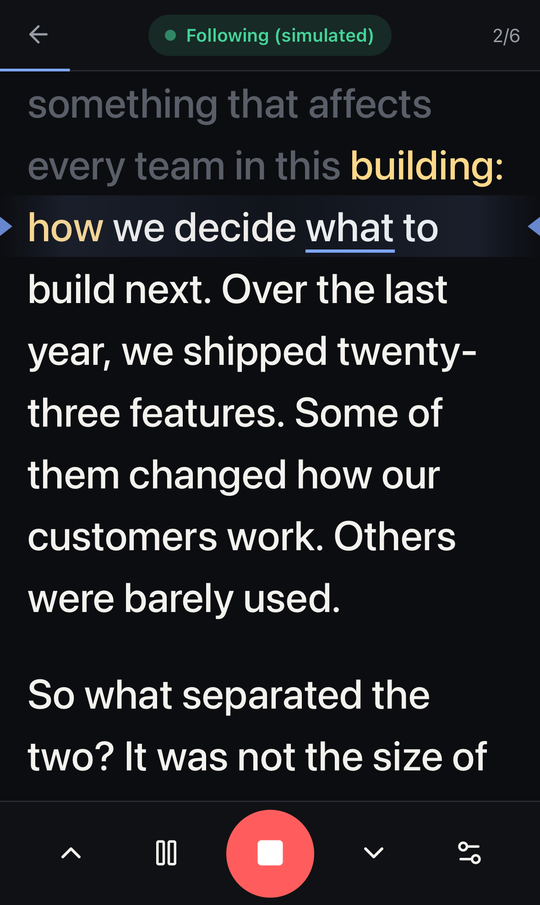
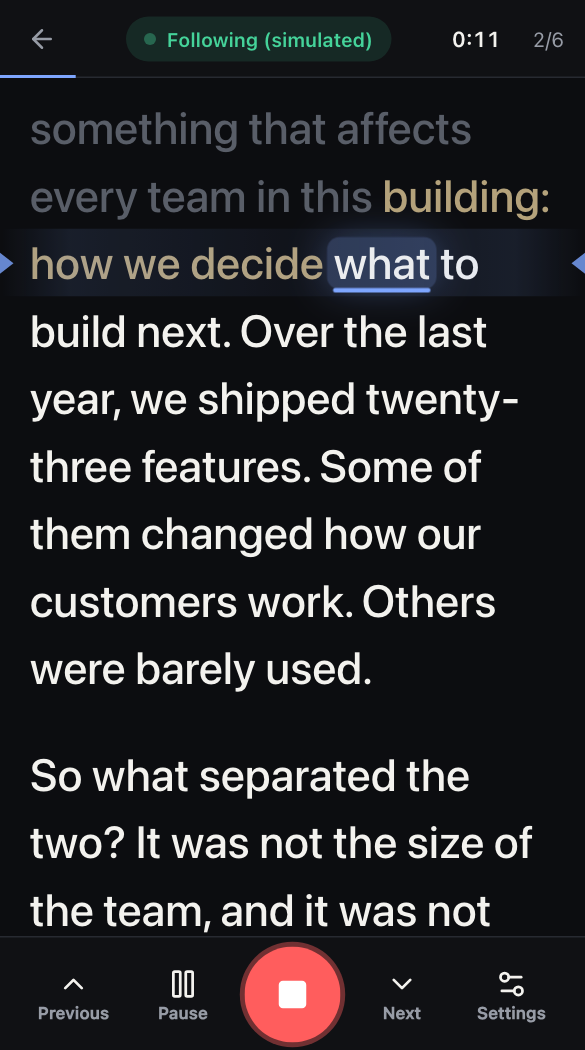
docs: refresh README facts and visuals
Bring the README in line with the current app and matcher: short skips
are followed without a button, repeated phrases never cause a skip,
"Try the sample", the boxed next word, the jump-target underline, the
talk timer and the "-" shortcut.

Retake all screenshots from the current UI (the phone ones predated the
dock labels, timer, new setup screen and speech service choice) and add
an animated demo of the script following speech. Fold the two technical
diagrams into expandable sections.

Correct the AssemblyAI upload note in DEPLOYMENT.md and .env.example:
current Safari and Chrome send it Opus too; only older browsers send
PCM.

diff --git a/README.md b/README.md
@@ -84,21 +84,22 @@ look back down.
 
 <table>
 <tr>
-<td width="33%" valign="top">
+<td width="45%" align="center" valign="top">
+
+<img src="docs/images/following.gif" width="300" alt="Animation of the presenter view on a phone: as the simulated speaker talks, the spoken words fade, the words being heard turn warm, and the boxed next word moves along the reading line." />
+
+<sub>Practice mode reading the sample talk, in real time.</sub>
+
+</td>
+<td valign="top">
 
 ### 1 · Add your script
 
 Paste it, or upload a `.txt` or `.docx` file. Your paragraphs stay exactly as you wrote them.
 
-</td>
-<td width="33%" valign="top">
-
 ### 2 · Start presenting
 
 Choose a text size and theme you like. Tap the microphone.
-
-</td>
-<td width="33%" valign="top">
 
 ### 3 · Just talk
 
@@ -110,28 +111,30 @@ The script follows you. Tap any word to jump there yourself.
 
 ### Reading the screen
 
-| You see           | It means                               |
-| ----------------- | -------------------------------------- |
-| Faded text        | You have said this                     |
-| Warm, dimmer text | What the app is hearing right now      |
-| Underlined word   | Your next word                         |
-| ◀ ▶ markers       | The reading line. Your line stays here |
+| You see                 | It means                                    |
+| ----------------------- | ------------------------------------------- |
+| Faded text              | You have said this                          |
+| Warm, dimmer text       | What the app is hearing right now           |
+| Boxed, underlined word  | Your next word                              |
+| ▶ ◀ markers at the edge | The reading line. Your line stays here      |
+| Dashed underline        | Where a **Jump to …** button would take you |
 
 ### Made for talks that don't go to plan
 
-| When you…                         | The app…                                                              |
-| --------------------------------- | --------------------------------------------------------------------- |
-| **Pause** to breathe or think     | waits. Nothing moves while you are silent.                            |
-| **Go off script** to tell a story | keeps your place, then picks up when you come back to the script.     |
-| **Say it differently** or stumble | copes with misheard words, "um" and "so", and small wording changes.  |
-| **Skip** a sentence or a section  | offers a **Jump to …** button at once, and jumps by itself when sure. |
-| **Repeat** a line for effect      | never jumps backward by itself.                                       |
-| **Lose the network**              | reconnects by itself and carries on. The buttons always still work.   |
-| **Lose the mic**                  | stops where you are and tells you.                                    |
+| When you…                         | The app…                                                             |
+| --------------------------------- | -------------------------------------------------------------------- |
+| **Pause** to breathe or think     | waits. Nothing moves while you are silent.                           |
+| **Go off script** to tell a story | keeps your place, then picks up when you come back to the script.    |
+| **Say it differently** or stumble | copes with misheard words, "um" and "so", and small wording changes. |
+| **Skip** a sentence or two        | catches up by itself after about 5 words (about 2 seconds).          |
+| **Skip** a whole section          | offers a **Jump to …** button, and jumps by itself when sure.        |
+| **Repeat** a line for effect      | never jumps backward by itself.                                      |
+| **Lose the network**              | reconnects by itself and carries on. The buttons always still work.  |
+| **Lose the mic**                  | stops where you are and tells you.                                   |
 
 > [!NOTE]
-> A common phrase like "thank you very much" can appear in many places. On its own, it is never
-> enough to make the script jump.
+> A phrase that appears more than once in your script, like "at the end of the day", never makes
+> the script jump on its own. It waits for the next few words, which tell the places apart.
 
 ## Features
 
@@ -153,6 +156,7 @@ The script follows you. Tap any word to jump there yourself.
 **Hands-free, with manual control**
 
 - Follows your voice, with a clear status: _Listening_, _Lost place_, _Paused_.
+- A talk timer that starts when you start speaking.
 - Tap any word or paragraph to jump there.
 - Previous and next paragraph buttons.
 - Keyboard shortcuts, and support for presenter clickers (Page Up / Page Down).
@@ -191,7 +195,7 @@ The script follows you. Tap any word to jump there yourself.
 <tr>
 <td align="center"><img src="docs/images/setup-phone.png" width="240" alt="Setup screen on a phone with the script editor and a Start presenting button." /><br /><sub>Add your script</sub></td>
 <td align="center"><img src="docs/images/presenter-phone.png" width="240" alt="Presenter view on a phone following along, with a large stop button in the bottom dock." /><br /><sub>Present hands-free</sub></td>
-<td align="center"><img src="docs/images/settings-phone.png" width="240" alt="Settings sheet on a phone with theme, typeface, text size, spacing, column width and reading line controls." /><br /><sub>Make it comfortable</sub></td>
+<td align="center"><img src="docs/images/settings-phone.png" width="240" alt="Settings sheet on a phone with the speech service choice (Standard or Fastest) above the theme and typeface controls." /><br /><sub>Choose your speech service and look</sub></td>
 </tr>
 </table>
 
@@ -239,7 +243,7 @@ cp apps/server/.env.example apps/server/.env   # then set DEEPGRAM_API_KEY and/o
 pnpm dev                                        # web on :5173, server on :8787
 ```
 
-Open **http://localhost:5173**, choose **Load sample**, then **Start presenting**.
+Open **http://localhost:5173**, choose **Try the sample**, then **Start presenting**.
 
 ### On your phone or tablet
 
@@ -260,7 +264,7 @@ You will see a certificate warning once. That is expected for a local test certi
 | `Space`                 | Pause or resume following                             |
 | `↑` `↓` · `PgUp` `PgDn` | Previous or next paragraph (works with most clickers) |
 | `Home`                  | Back to the start                                     |
-| `+` `−`                 | Bigger or smaller text                                |
+| `+` `-`                 | Bigger or smaller text                                |
 | `F`                     | Full screen                                           |
 | `D`                     | Diagnostics panel                                     |
 | `?`                     | Show all shortcuts                                    |
@@ -294,7 +298,7 @@ for each option.
 flowchart LR
     subgraph browser["Browser"]
         direction TB
-        mic["Microphone"] --> enc["Audio capture<br/>Opus, or raw PCM<br/>on older browsers"]
+        mic["Microphone"] --> enc["Audio capture<br/>compressed Opus<br/>(raw PCM on some older browsers)"]
         match["Matcher<br/>finds your place"] --> view["Script view<br/>scrolls to your line"]
         taps["Taps and keys"] --> view
     end
@@ -308,6 +312,10 @@ flowchart LR
 ```
 
 ### One sentence, step by step
+
+<details>
+<summary><b>How guesses and final results move the highlight</b></summary>
+<br />
 
 The speech service sends two kinds of results. A **guess** comes quickly and may change. A
 **final** result comes a moment later and does not change. The app uses each one differently.
@@ -329,28 +337,45 @@ sequenceDiagram
     Note over App: Words fade as spoken<br/>(locked in, never moves back)
 ```
 
+A guess can even carry the warm highlight across a skipped sentence before the final result
+arrives, so the screen catches up sooner.
+
+</details>
+
 ### How the matcher finds your place
 
 It compares the last ~8 words you said with the script. It allows for misheard words, extra
 words, missed words, "um"s and spoken numbers ("twenty twenty five" = "2025").
 
+<details>
+<summary><b>The decision, step by step</b></summary>
+<br />
+
 ```mermaid
 flowchart TD
-    heard["New final words"] --> near{"Do they match the text<br/>just ahead of you?"}
+    heard["New words heard"] --> near{"Do they match the text<br/>just ahead of you?"}
     near -- "yes" --> move["Move forward"]
     near -- "they match text<br/>you already said" --> hold["Stay put<br/>(you are repeating)"]
+    near -- "they match a sentence or two ahead,<br/>and nowhere else (5+ words)" --> skip["Catch up to you"]
     near -- "no" --> far{"Do they match a rare phrase<br/>further ahead, and only there?"}
     far -- "yes" --> offer["Show a 'Jump to …' button<br/>(one tap moves you there)"]
-    offer -- "about 14 words agree,<br/>across two or more finals" --> jump["Jump ahead by itself"]
-    offer -- "you go back to where you were" --> gone["The button goes away"]
+    offer -- "about 14 words agree" --> jump["Jump ahead by itself"]
+    offer -- "you carry on where you were" --> gone["The button goes away"]
     far -- "not sure" --> wait["Stay put<br/>after a few misses: 'Lost place'"]
 ```
 
+</details>
+
+- **Short skips are followed by themselves.** Up to about 40 words ahead, 5 words that match
+  well are enough, as long as they match nowhere else in the script. Even a guess can move the
+  highlight, so it catches up in about 2 seconds.
+- **Far jumps are careful.** Quoting a later part of your talk ("later I'll show you…") must not
+  move the script, so a far jump needs about 14 agreeing words. The **Jump to …** button appears
+  much sooner, after about 5 words, so a real skip is still one tap away.
+- **Repeated phrases never cause a skip.** If the words also match another place in the script,
+  it waits for more.
 - It is a **pure function**: `update(context, state, transcriptEvent) → state`. It has no
   network or speech service code, so it is easy to test.
-- **Far jumps are careful.** Quoting a later part of your talk ("later I'll show you…") must not
-  move the script, so a jump needs about 14 agreeing words. The **Jump to …** button appears much
-  sooner, after about 5 words, so a real skip is still one tap away.
 - All the limits live in one file:
   [`packages/shared/src/matcher/config.ts`](packages/shared/src/matcher/config.ts).
 
@@ -365,7 +390,7 @@ apps/
   server/     Fastify WebSocket relay, Deepgram and AssemblyAI adapters, access control
 packages/
   shared/     Message formats, tokenizer, matcher, simulator (used by both apps)
-docs/         Screenshots
+docs/         Screenshots and illustrations
 deploy/       Optional platform helpers (Cloudflare)
 DEPLOYMENT.md Deployment guide for any platform
 compose.yaml  Run the production images with Docker Compose
@@ -373,9 +398,9 @@ compose.yaml  Run the production images with Docker Compose
 
 ### Tech stack
 
-TypeScript (strict) · React 19 · Vite · Fastify 5 · `ws` · Zod · Web Audio `AudioWorklet`,
+TypeScript (strict) · React 19 · Vite 8 · Fastify 5 · `ws` · Zod · Web Audio `AudioWorklet`,
 WebCodecs `AudioEncoder` and MediaRecorder (Opus) · Deepgram (Nova-3) and AssemblyAI
-(Universal-Streaming) speech-to-text · Caddy · Vitest + Testing Library · pnpm workspaces.
+(Universal-Streaming) speech-to-text · mammoth (reads `.docx` in the browser) · Caddy · Vitest + Testing Library · pnpm workspaces.
 
 ## Development
 

diff --git a/DEPLOYMENT.md b/DEPLOYMENT.md
@@ -63,17 +63,17 @@ Use this when your front-end host can't proxy WebSockets. The front end is built
 
 **api** (full list with defaults: [`apps/server/.env.example`](apps/server/.env.example))
 
-| Variable                                                                | Required                       | Example / default              | Purpose                                                                                                                                                                  |
-| ----------------------------------------------------------------------- | ------------------------------ | ------------------------------ | ------------------------------------------------------------------------------------------------------------------------------------------------------------------------ |
-| `DEEPGRAM_API_KEY`                                                      | a key for at least one service | —                              | Deepgram key (keep secret)                                                                                                                                               |
-| `ASR_PROVIDER`                                                          | no                             | `deepgram`                     | Default speech service, `deepgram` or `assemblyai`. Presenters can choose any service that has a key                                                                     |
-| `ASSEMBLYAI_API_KEY`                                                    | a key for at least one service | —                              | AssemblyAI key (keep secret): faster confirmed words, but browsers upload PCM (~8x the data of Opus). Opt out of model training in its dashboard for zero data retention |
-| `APP_ACCESS_CODE`                                                       | strongly recommended           | —                              | Passcode presenters enter before voice tracking starts                                                                                                                   |
-| `ALLOWED_ORIGINS`                                                       | yes                            | `https://prompter.example.com` | Exact browser origin(s) of the front end, comma-separated                                                                                                                |
-| `PORT` / `HOST`                                                         | no                             | `8080` / `::` (in the image)   | Listen address                                                                                                                                                           |
-| `TRUST_PROXY`                                                           | no                             | `false`                        | `true` behind the web image (it overwrites `X-Forwarded-For`); a hop count (`1`) or CIDR list behind other load balancers                                                |
-| `MAX_CONCURRENT_SESSIONS`, `MAX_SESSIONS_PER_IP`, `MAX_SESSION_MINUTES` | no                             | `10`, `10`, `90`               | Cost limits                                                                                                                                                              |
-| `SHUTDOWN_GRACE_SECONDS`                                                | no                             | `8`                            | Time to finalize sessions on shutdown                                                                                                                                    |
+| Variable                                                                | Required                       | Example / default              | Purpose                                                                                                                                                                                                                   |
+| ----------------------------------------------------------------------- | ------------------------------ | ------------------------------ | ------------------------------------------------------------------------------------------------------------------------------------------------------------------------------------------------------------------------- |
+| `DEEPGRAM_API_KEY`                                                      | a key for at least one service | —                              | Deepgram key (keep secret)                                                                                                                                                                                                |
+| `ASR_PROVIDER`                                                          | no                             | `deepgram`                     | Default speech service, `deepgram` or `assemblyai`. Presenters can choose any service that has a key                                                                                                                      |
+| `ASSEMBLYAI_API_KEY`                                                    | a key for at least one service | —                              | AssemblyAI key (keep secret): faster confirmed words. Same upload as Deepgram on current Safari and Chrome; older browsers send it PCM (~8x the data). Opt out of model training in its dashboard for zero data retention |
+| `APP_ACCESS_CODE`                                                       | strongly recommended           | —                              | Passcode presenters enter before voice tracking starts                                                                                                                                                                    |
+| `ALLOWED_ORIGINS`                                                       | yes                            | `https://prompter.example.com` | Exact browser origin(s) of the front end, comma-separated                                                                                                                                                                 |
+| `PORT` / `HOST`                                                         | no                             | `8080` / `::` (in the image)   | Listen address                                                                                                                                                                                                            |
+| `TRUST_PROXY`                                                           | no                             | `false`                        | `true` behind the web image (it overwrites `X-Forwarded-For`); a hop count (`1`) or CIDR list behind other load balancers                                                                                                 |
+| `MAX_CONCURRENT_SESSIONS`, `MAX_SESSIONS_PER_IP`, `MAX_SESSION_MINUTES` | no                             | `10`, `10`, `90`               | Cost limits                                                                                                                                                                                                               |
+| `SHUTDOWN_GRACE_SECONDS`                                                | no                             | `8`                            | Time to finalize sessions on shutdown                                                                                                                                                                                     |
 
 **web** (see [`apps/web/Caddyfile`](apps/web/Caddyfile))
 
